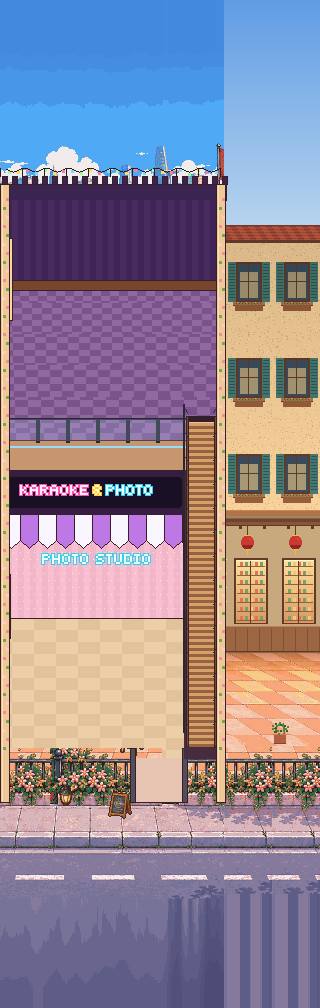
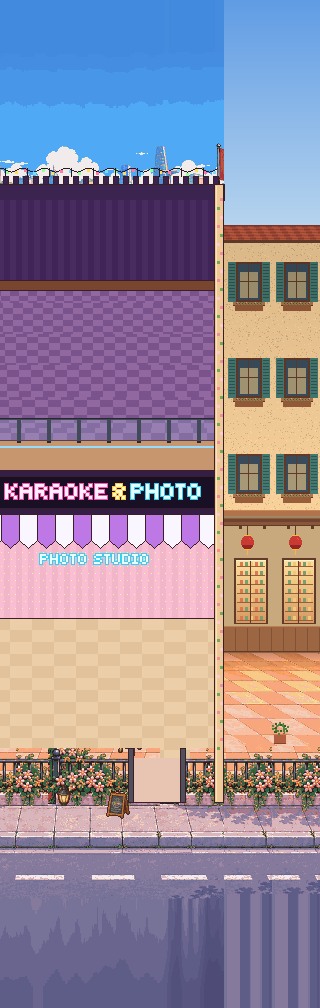
Lẩu Ơi v1.20d: bỏ vách ngăn quán – khu giải trí, dùng chung cầu thang
- Bỏ cột/vách giữa quán và khu Karaoke & Photo: phòng giải trí chạy sát cầu thang quán
- Bỏ cầu thang riêng bên phải; khách Karaoke đi chung cầu thang của quán rồi sang lầu karaoke
- Biển KARAOKE & PHOTO và mái che chạy hết bề ngang; máy chụp ảnh + tường polaroid về góc phải

Claude-Session: https://claude.ai/code/session_01BD8ysNy2UsXiFAiTavnXvs

Changed region(s): [[0.0, 0.1538, 0.7188, 0.8304]]

diff --git a/web/quanlau/src/config.js b/web/quanlau/src/config.js
@@ -581,8 +581,8 @@ export const DECO = [
   { id: 'gt_phong', cat: 'giaitri', name: 'Phông chụp + vòm hoa giấy', price: 0, amb: 8, source: 'box', box: 'bx_gt_phong', fun: { floor: 1, x: 243, y: 232 }, effect: { demandMult: 1.04 }, desc: 'Góc sống ảo của quán. Khách +4%.' },
   { id: 'gt_denvong', cat: 'giaitri', name: 'Đèn vòng chụp ảnh', price: 0, amb: 3, source: 'box', box: 'bx_gt_denvong', fun: { floor: 1, x: 210, y: 256 }, effect: { tipMult: 1.03 }, desc: 'Ảnh lung linh, khách vui tip thêm. Tip +3%.' },
   { id: 'gt_bongbay', cat: 'giaitri', name: 'Chùm bóng bay', price: 0, amb: 3, source: 'box', box: 'bx_gt_bongbay', fun: { floor: 1, x: 266, y: 288 }, effect: { patienceMult: 1.02 }, desc: 'Kiên nhẫn +2%.' },
-  { id: 'gt_polaroid', cat: 'giaitri', name: 'Tường ảnh polaroid', price: 0, amb: 4, source: 'box', box: 'bx_gt_polaroid', fun: { floor: 1, x: 274, y: 198, wall: true }, effect: { patienceMult: 1.03 }, desc: 'Khách ngắm ảnh trong lúc chờ. Kiên nhẫn +3%.' },
-  { id: 'gt_mayanh', cat: 'giaitri', name: 'Máy chụp ảnh lấy liền (to)', price: 0, amb: 8, source: 'box', box: 'bx_gt_mayanh', fun: { floor: 1, x: 274, y: 246 }, effect: { demandMult: 1.05 }, desc: 'Khách +5%.' },
+  { id: 'gt_polaroid', cat: 'giaitri', name: 'Tường ảnh polaroid', price: 0, amb: 4, source: 'box', box: 'bx_gt_polaroid', fun: { floor: 1, x: 290, y: 198, wall: true }, effect: { patienceMult: 1.03 }, desc: 'Khách ngắm ảnh trong lúc chờ. Kiên nhẫn +3%.' },
+  { id: 'gt_mayanh', cat: 'giaitri', name: 'Máy chụp ảnh lấy liền (to)', price: 0, amb: 8, source: 'box', box: 'bx_gt_mayanh', fun: { floor: 1, x: 288, y: 246 }, effect: { demandMult: 1.05 }, desc: 'Khách +5%.' },
   { id: 'gt_gapthu', cat: 'giaitri', name: 'Máy gắp thú', price: 0, amb: 6, source: 'box', box: 'bx_gt_gapthu', fun: { floor: 1, x: 214, y: 288 }, effect: { patienceMult: 1.05 }, desc: 'Trẻ em mê lắm. Kiên nhẫn +5%.' },
   { id: 'gt_neon', cat: 'giaitri', name: 'Bảng neon KARAOKE', price: 0, amb: 4, source: 'box', box: 'bx_gt_neon', fun: { floor: 2, x: 222, y: 22, wall: true }, effect: { demandMult: 1.02 }, desc: 'Khách +2%.' },
   { id: 'gt_disco', cat: 'giaitri', name: 'Quả cầu disco', price: 0, amb: 4, source: 'box', box: 'bx_gt_disco', fun: { floor: 2, x: 276, y: 17, wall: true }, effect: { tipMult: 1.03 }, desc: 'Tip +3%.' },

diff --git a/web/quanlau/src/art/layouts.js b/web/quanlau/src/art/layouts.js
@@ -167,14 +167,15 @@ const LAYOUTS = {
       waiters: [{ x: -50, y: 247 }, { x: -50, y: 86 }], view: [-100, 292], leftOnly: true },
     // v1.19 phòng giải trí bên phải: vùng trong phòng (world px) theo tầng, khách tham quan đứng / ngồi khi quán mở
     fun: {
-      rooms: { 1: { x0: 201, x1: 304, y0: 186, y1: 295 }, 2: { x0: 201, x1: 304, y0: 16, y1: 136 } },
+      rooms: { 1: { x0: 189, x1: 304, y0: 186, y1: 295 }, 2: { x0: 189, x1: 304, y0: 16, y1: 136 } },
       view: 312,
       // v1.20 khách mua vé: đi vỉa hè → cổng riêng → (cầu thang bên phải lên lầu) → chỗ chơi
-      nav: { spawnR: 344, spawnL: -124, walkY: 326, gateX: 274, inY: 282, stairX: 297, stairBot: 280, stairTop: 132, upY: 124,
-        hide: { x0: 288, x1: 306, y0: 136, y1: 198 } },
+      nav: { spawnR: 344, spawnL: -124, walkY: 326, gateX: 274, inY: 282, upY: 124,
+        up: [[186, 282], [178, 258], [178, 198], [160, 148], [194, 128]],   // cầu thang chung của quán (stairs.bottom → via → top) rồi sang lầu karaoke
+        hide: { x0: 165, x1: 192, y0: 149, y1: 199 } },
       spots: {
         1: [{ x: 238, y: 232, pose: 'cheer', need: 'gt_phong' }, { x: 249, y: 232, pose: 'cheer', need: 'gt_phong' },
-          { x: 244, y: 258, facing: 'up' }, { x: 274, y: 262, facing: 'up', need: 'gt_mayanh' }, { x: 226, y: 288, pose: 'cheer', need: 'gt_gapthu' },
+          { x: 244, y: 258, facing: 'up' }, { x: 288, y: 262, facing: 'up', need: 'gt_mayanh' }, { x: 226, y: 288, pose: 'cheer', need: 'gt_gapthu' },
           { x: 218, y: 262, facing: 'left' }, { x: 258, y: 276, facing: 'up' }, { x: 230, y: 250, facing: 'right' }],
         2: [{ x: 246, y: 72, pose: 'cheer', need: 'gt_sankhau' }, { x: 224, y: 110, pose: 'sit', need: 'gt_sofa', sortY: 113 }, { x: 240, y: 110, pose: 'sit', need: 'gt_sofa', sortY: 113 },
           { x: 262, y: 100, pose: 'cheer' }, { x: 276, y: 112, pose: 'cheer' }, { x: 256, y: 122, facing: 'up' }, { x: 270, y: 124, pose: 'sit', need: 'gt_gheluoi' },

diff --git a/web/quanlau/src/core/fun.js b/web/quanlau/src/core/fun.js
@@ -70,16 +70,17 @@ export function funRate(G, id) {
   return r;
 }
 
+// v1.20b lên lầu karaoke bằng cầu thang chung của quán (giữa quán ăn và khu giải trí), không còn cầu thang riêng
 function pathIn(G, id, spot, startX) {
   const N = G.world.layout.fun.nav, pts = [{ x: startX, y: N.walkY }, { x: N.gateX, y: N.walkY }, { x: N.gateX, y: N.inY }];
-  if (fl(id) === 2) { pts.push({ x: N.stairX, y: N.inY }, { x: N.stairX, y: N.stairBot }, { x: N.stairX, y: N.stairTop }, { x: N.stairX, y: N.upY }); pts.push({ x: spot.x, y: N.upY }); }
+  if (fl(id) === 2) { for (const p of N.up) pts.push({ x: p[0], y: p[1] }); pts.push({ x: spot.x, y: N.upY }); }
   else pts.push({ x: spot.x, y: N.inY });
   pts.push({ x: spot.x, y: spot.y });
   return pts;
 }
 function pathOut(G, id, a, endX) {
   const N = G.world.layout.fun.nav, pts = [{ x: a.x, y: a.y }];
-  if (fl(id) === 2) pts.push({ x: a.x, y: N.upY }, { x: N.stairX, y: N.upY }, { x: N.stairX, y: N.stairTop }, { x: N.stairX, y: N.stairBot }, { x: N.stairX, y: N.inY });
+  if (fl(id) === 2) { pts.push({ x: a.x, y: N.upY }); for (let i = N.up.length - 1; i >= 0; i--) pts.push({ x: N.up[i][0], y: N.up[i][1] }); }
   else pts.push({ x: a.x, y: N.inY });
   pts.push({ x: N.gateX, y: N.inY }, { x: N.gateX, y: N.walkY }, { x: endX, y: N.walkY });
   return pts;

diff --git a/web/quanlau/src/art/assets.js b/web/quanlau/src/art/assets.js
@@ -8,7 +8,7 @@
 // drawn with blit() at a world position lands 1:1 on buffer pixels (crisp, no resampling).
 // Keep DETAIL in sync with `DETAIL` in src/render/renderer.js.
 export const DETAIL = 2;
-export const ASSET_VER = 'l20c';   // v1.18n: icons.png + props.png có thêm khung mới (Hộp mù) — PHẢI tăng khi đổi PNG
+export const ASSET_VER = 'l20d';   // v1.18n: icons.png + props.png có thêm khung mới (Hộp mù) — PHẢI tăng khi đổi PNG
 /** khung có nằm trong ảnh đã tải không (ảnh cũ trong bộ nhớ đệm + dữ liệu khung mới → Safari báo lỗi drawImage) */
 export const frameOk = (rec, f) => !!(rec && rec.img && f) && f[0] + f[2] <= (rec.img.naturalWidth || rec.img.width) && f[1] + f[3] <= (rec.img.naturalHeight || rec.img.height);
 

diff --git a/web/quanlau/sw.js b/web/quanlau/sw.js
@@ -1,7 +1,7 @@
 // Lẩu Ơi! service worker (v1.2): makes the game installable as an app (Android "Cài đặt ứng dụng", desktop Chrome/Edge)
 // and lets it open without a connection. Network first: an online player always gets the newest files; the cached
 // copy is only used when the network fails. Saves live in localStorage and are never touched here.
-const CACHE = 'lauoi-v53';
+const CACHE = 'lauoi-v54';
 // Trang thật là /quanlau (vercel.json: trailingSlash:false) nên scope là "/quanlau", không phải "/quanlau/".
 const HOME = '/quanlau';
 const CORE = [HOME, 'index.html', 'style.css', 'manifest.json', 'src/main.js', 'assets/app/icon-192.png'];
